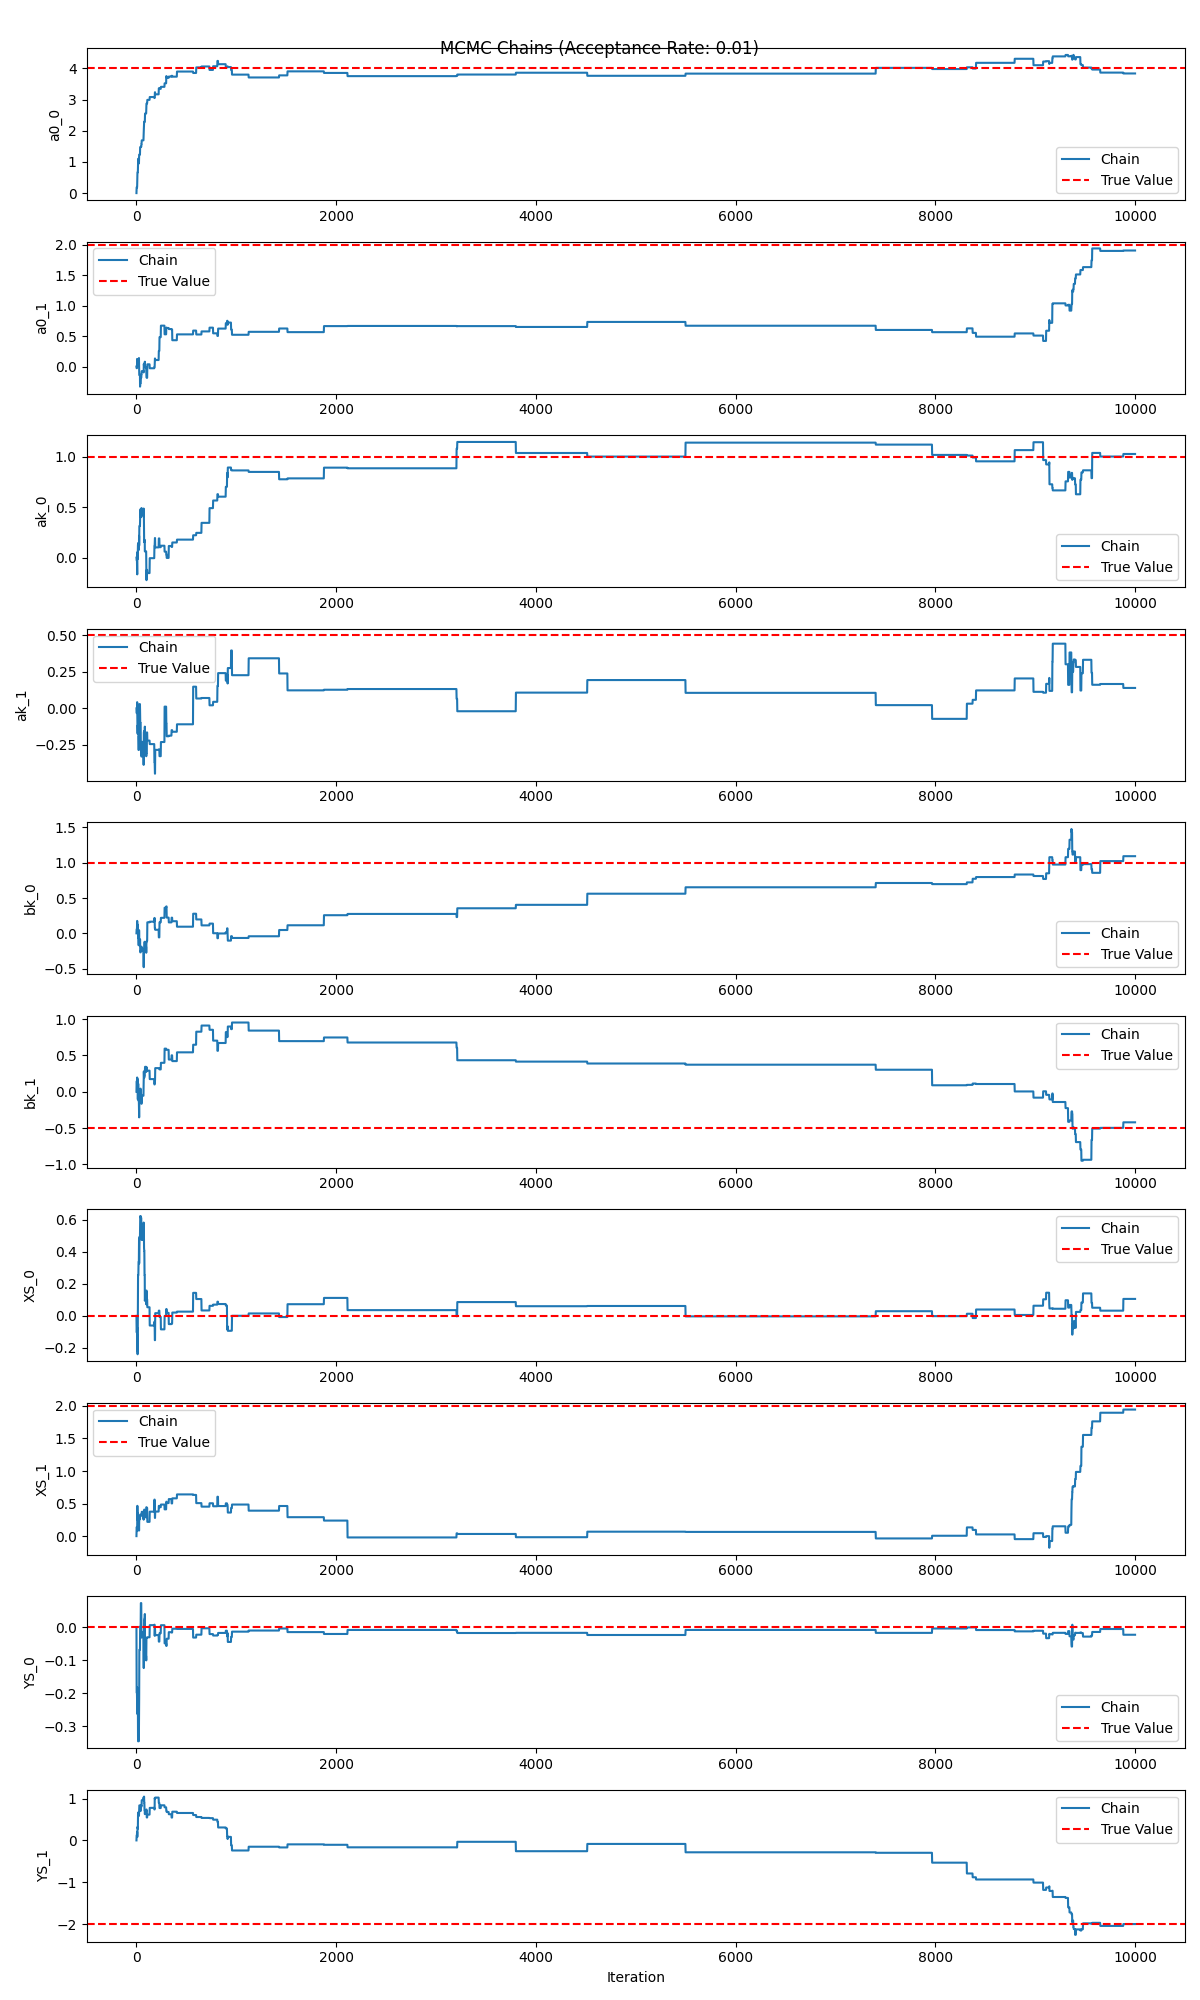
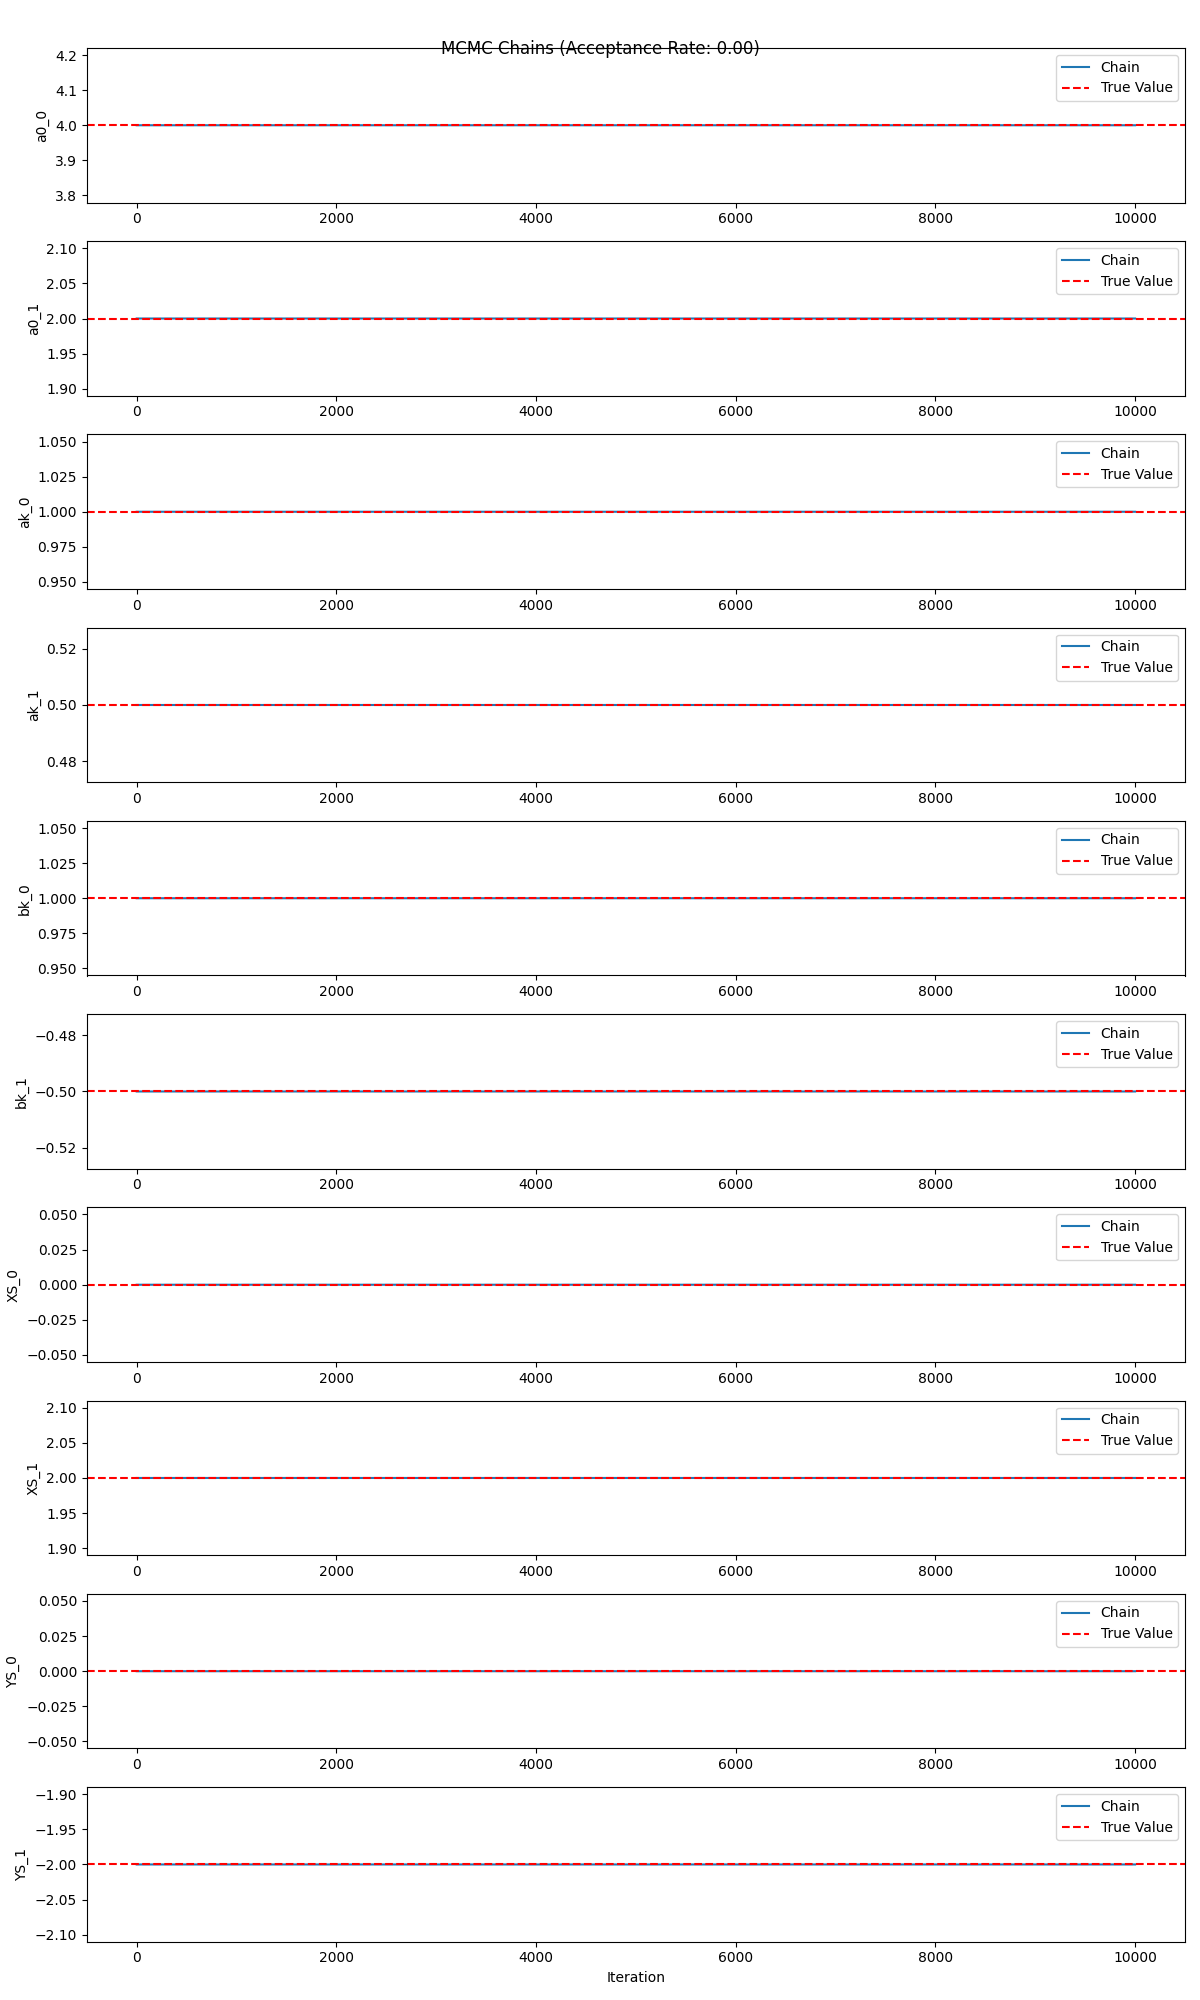
feat: ensure non-negative source function output with softplus, pre-calculate wind vectors for likelihood, and initialize MCMC closer to true values.

diff --git a/Code/source_varying_functions.py b/Code/source_varying_functions.py
@@ -9,23 +9,23 @@ def wind_function(t, wa0, wa, wb):
         wind += wa[k] * cos(2 * np.pi * (k + 1) * t) + wb[k] * sin(2 * np.pi * (k + 1) * t)
     return wind
 
-def s_function(t,ak,bk,a0):
-    ak = np.array(ak)
-    bk = np.array(bk)
-    a0 = np.array(a0)
+def s_function(t, ak, bk, a0):
+    # ak, bk, a0 are assumed to be arrays (handled in caller)
     
     if ak.ndim == 1:
         n_coeff = ak.shape[0]
         cosines = np.array([cos(2*np.pi*(k+1)*t) for k in range(n_coeff)])
         sines = np.array([sin(2*np.pi*(k+1)*t) for k in range(n_coeff)])
-        return np.dot(ak,cosines) + np.dot(bk,sines) + a0
+        linear_pred = np.dot(ak,cosines) + np.dot(bk,sines) + a0
     else:
         # ak is (N_sources, n_coeff)
         n_coeff = ak.shape[1]
         cosines = np.array([cos(2*np.pi*(k+1)*t) for k in range(n_coeff)])
         sines = np.array([sin(2*np.pi*(k+1)*t) for k in range(n_coeff)])
         # np.dot(ak, cosines) -> (N_sources,)
-        return np.dot(ak, cosines) + np.dot(bk, sines) + a0
+        linear_pred = np.dot(ak, cosines) + np.dot(bk, sines) + a0
+        
+    return np.log1p(np.exp(linear_pred))
 
 # def A_matrix(x_1s,x_2s,x_1,x_2):
 #     return np.exp(-((x_1s-x_1)**2+(x_2s-x_2)**2))
@@ -115,7 +115,7 @@ def A_matrix(x_sensor, y_sensor, constants, wind_vector=None):
     dist_R = np.array(dxlist) * u_vec[0] + np.array(dylist) * u_vec[1]
     dist_H = np.array(dxlist) * wind_vec_perp[0] + np.array(dylist) * wind_vec_perp[1]
     dist_V = Z - ZS 
-
+    
     a_H, b_H = constants['a_H'], constants['b_H']
     a_V, b_V = constants['a_V'], constants['b_V']
     w, h = constants['w'], constants['h']
@@ -235,7 +235,7 @@ class Model:
     # Calculates log_likelihood of data given
     def log_likelihood_y(self, coeff, T, Nt, Nx, data, source_locations=None):
         # Unpack coefficients
-        a0 = coeff[0]
+        a0 = np.array(coeff[0])
         ak = np.atleast_1d(coeff[1])
         bk = np.atleast_1d(coeff[2])
         
@@ -255,17 +255,22 @@ class Model:
             current_constants['XS'] = source_locations[0]
             current_constants['YS'] = source_locations[1]
         
+        # Pre-calculate wind vectors
+        wa0 = current_constants.get('wa0')
+        wa = current_constants.get('wa')
+        wb = current_constants.get('wb')
+        wind_vectors = None
+        if wa0 is not None and wa is not None and wb is not None:
+             wind_vectors = [wind_function(t, wa0, wa, wb) for t in times]
+
         # Iterate over time steps
         for i, t in enumerate(times):
             # Calculate source function value at time t
             st = self.s_function(t, ak, bk, a0)
             
             # Calculate expected value mu(x, t)
-            wa0 = current_constants.get('wa0')
-            wa = current_constants.get('wa')
-            wb = current_constants.get('wb')
-            if wa0 is not None and wa is not None and wb is not None:
-                current_wind = wind_function(t, wa0, wa, wb)
+            if wind_vectors is not None:
+                current_wind = wind_vectors[i]
                 A = A_matrix(data['X1'], data['X2'], current_constants, wind_vector=current_wind)
             else:
                 A = A_matrix(data['X1'], data['X2'], current_constants)

diff --git a/Code/plumes/varying_source.py b/Code/plumes/varying_source.py
@@ -38,8 +38,8 @@ physical_constants = {
     'SIGMA_V': 10.0,  # m, vertical dispersion coefficient
     'N_REFL': 5,      # number of reflections
     'P': 1000.0,      # m, PBL height
-    'XS': [2.0, 2.0],       # m, source x-coordinate (multiple sources)
-    'YS': [-2.0, -2.0],       # m, source y-coordinate (multiple sources)
+    'XS': [0.0, 2.0],       # m, source x-coordinate (multiple sources)
+    'YS': [0.0, -2.0],       # m, source y-coordinate (multiple sources)
     'ZS': 0,       # m, source height
     'Z': 0,         # m, sensor height
     'a_H': 1,
@@ -132,7 +132,11 @@ n_sources = 2
 n_coeff = 1
 n_params = n_sources + n_sources*n_coeff + n_sources*n_coeff + n_sources + n_sources
 
-initial_point = np.zeros(n_params) 
+# Initialize at true values to verify model correctness
+true_XS = np.array(physical_constants['XS'])
+true_YS = np.array(physical_constants['YS'])
+true_values_flat = np.concatenate([a0.flatten(), ak.flatten(), bk.flatten(), true_XS.flatten(), true_YS.flatten()])
+initial_point = true_values_flat.copy() + np.random.normal(0, 3, n_params)
 
 def log_posterior(flat_coeff):
     # Reshape flat_coeff to [a0, ak, bk, XS, YS]
